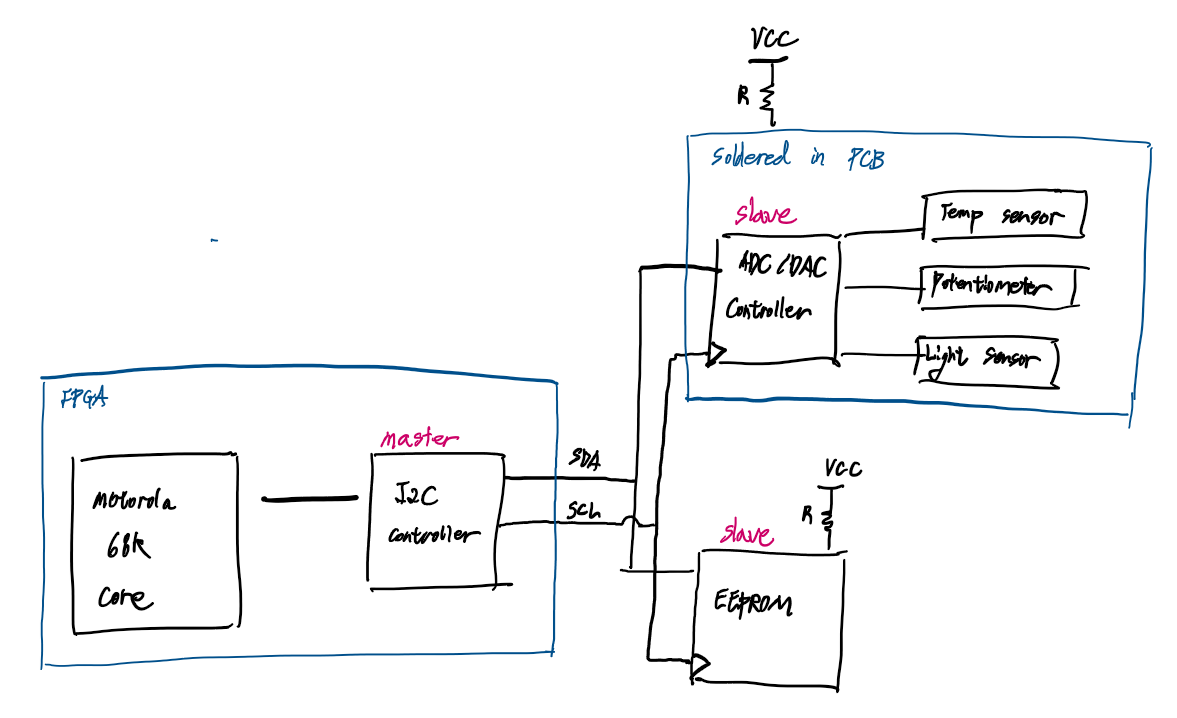
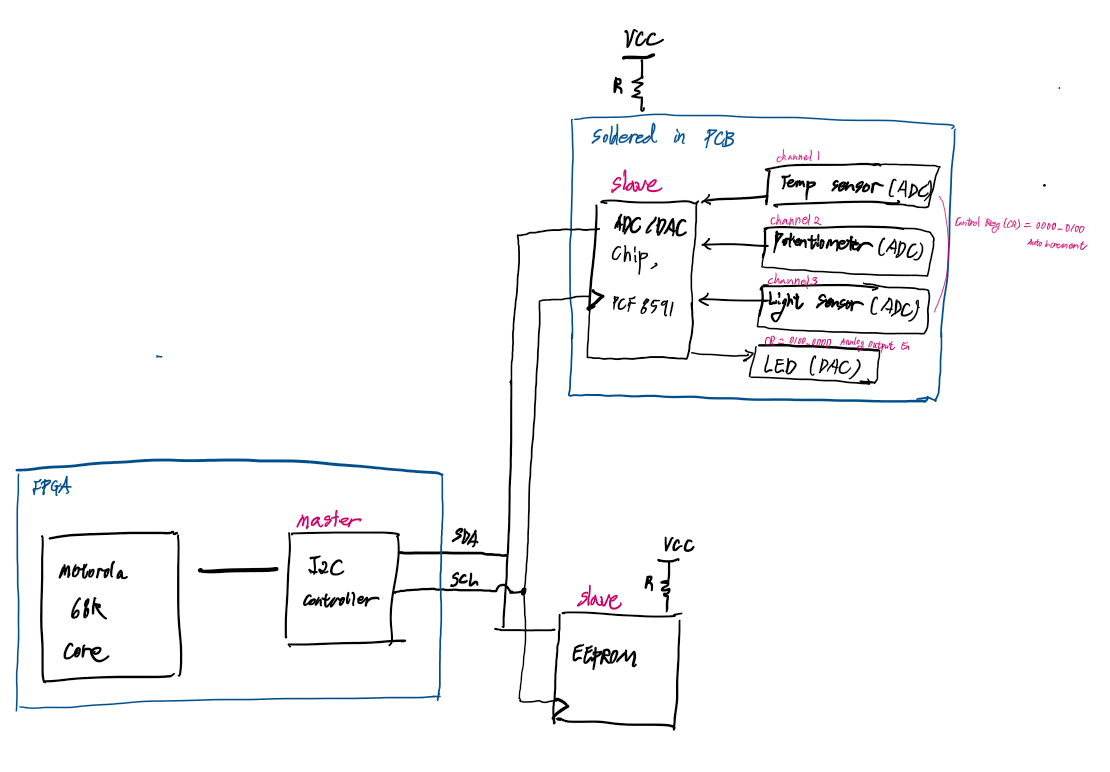
readme added

diff --git a/Lab5/Lab5_EEPROM_ADC_DAC(final).c b/Lab5/Lab5_EEPROM_ADC_DAC(final).c
@@ -86,7 +86,8 @@
 #define SR       *(volatile unsigned char *)(0x00408008)    // status register
 
 /*********************************************************************************************
-**	I2C Addresses
+**	I2C Slave Addresses
+**  ADC/DAC p13 of the PCF8591 Datasheet
 *********************************************************************************************/
 #define EEPROM_ADDR_WRITE0      0xA0                   // for bank 0 (B0 = 0)
 #define EEPROM_ADDR_READ0       0xA1                   // for bank 0 (B0 = 0)
@@ -721,13 +722,13 @@ void DAC_LED(void) {
 	// write ADC slave adress 1 0 0 1 0 0 0 0(write)
     I2C_start_write(ADC_ADDR_WRITE);
 
-	// write control bytes 0 1 0 0 0 0 0 0 = 0x40 for enabling DAC
+	// write control bytes 0100_0000 = 0x40 for analog output voltage enable flag. D/A conversion
     I2C_write(0x40);
 
 
 	//endless loop
 	//continously increased the voltage value that goes into LED.
-	//for every 20 loop, the intensity of light goes up by1.
+	//for every 20 loop, the intensity of light goes up by 1.
 	//once it reaches 255, it starts from 0 again.
 	while (1) {
 
@@ -750,12 +751,12 @@ void DAC_LED(void) {
 }
 
 /************************************************************************************
-**   Read all four ADC channels and print them out
+**   Read all four ADC channels and print them out (ADC)
 ************************************************************************************/
 void ADC_Read(void) {
     unsigned char data = 0;
 
-    // Beofre we read the value, we have to select the correct channel by writting the channel number to I2C controller.
+    // Before we read the value, we have to select the correct channel by writting the channel number to I2C controller.
 	// write ADC slave adress 1 0 0 1 0 0 0 0(write)
     I2C_start_write(ADC_ADDR_WRITE);
 
@@ -768,13 +769,16 @@ void ADC_Read(void) {
     
     I2C_write(0x04);
 
-    I2C_stop_command();
+    //repeated start is used here. don't need to send the stop-bit
+    //I2C_stop_command();
 
     printf("\r\nReading 3 sensors");
 
-    // write slave address
+    // send the read address
+    // write ADC slave adress 1 0 0 1 0 0 0 1(read)
     I2C_start_write(ADC_ADDR_READ);
 
+    //I2C_read(1) continusouly read
     data = I2C_read(1);
     printf("\r\nDigital value of external input = 0x%x", data);
 
@@ -784,7 +788,8 @@ void ADC_Read(void) {
     data = I2C_read(1);
     printf("\r\nDigital value of photo-resistor = 0x%x", data);
 
-    data = I2C_read(0);                                         // this sends the NACK and stop command
+    // this sends the NACK and stop command
+    data = I2C_read(0);                                         
     printf("\r\nDigital value of potentiometer = 0x%x", data);
 
 }

diff --git a/Lab5/README.md b/Lab5/README.md
@@ -1,5 +1,4 @@
-# Lab5: I2C driver Development for wishbond buses
-
+# Lab5: I2C driver Development
 
 ## Goal:
 Use Motorola 68k softcore process on DE1-SoC FPGA Board, 
@@ -17,33 +16,92 @@ Use Motorola 68k softcore process on DE1-SoC FPGA Board,
     * DE1-SOC
     * Download motorola68k softcore + I2C controller VHDL code
 * EEProm : 
-    * Microchip's 24AA1025, 128k bytes EEProm
+    * Microchip's 24AA1025, 1MB (128k x 8) EEProm
 * ADC/DAC converter: 
-    * NXP's PCF8591 is soldered to a tiny PCB with three sensors (Potentiometer, Light and Temperature)
+    * NXP's PCF8591 is soldered to a tiny PCB with three sensors + LED output
 
 ## Block diagram :
 
 <img src="image/blockdiagram.png" >
 </br></br>
 
-## I2C read, write:
-READ
-    1. generate start command
-    2. write slave address + write bit
-    3. receive acknowledge from slave
-    4. write data
-    5. receive acknowledge from slave
-    6. generate stop command
+## I2C Master Core:
+* Register Configuration:
 
-WRITE
-    1. generate start signal
-    2. write slave address + write bit
-    3. receive acknowledge from slave
-    4. write memory location
-    5. receive acknowledge from slave
-    6. generate repeated start signal
-    7. write slave address + read bit 
-    8. receive acknowledge from slave
-    9. read byte from slave
-    10. write no acknowledge (NACK) to slave, indicating end of transfer
-    11. generate stop signal
+    Control Register(CTR)
+    | Bit           | 7 MSB | 6 | 5 | 4 | 3  | 2  | 1  | 0 LSB |
+    |---------------|-------|---|---|---|----|----|----|-------|
+    | | Core Enable | Interrupt Enable |  |  |  |  |  |   |
+
+
+    Command Register(CR)
+    | Bit           | 7 MSB | 6 | 5 | 4 | 3  | 2  | 1  | 0 LSB |
+    |---------------|-------|---|---|---|----|----|----|-------|
+    | | Generate Start | Generate Stop | Read from slave | Write to slave |  |  |  | Interrupt Ack: When set, clears a pending interrupts  |
+
+    Status Register(SR)
+    | Bit           | 7 MSB | 6 | 5 | 4 | 3  | 2  | 1  | 0 LSB |
+    |---------------|-------|---|---|---|----|----|----|-------|
+    | | Receive Ack from slave |  |  |  |  |  |  | Interrupt Flag: set to 1 when interrupt is pending  |
+
+    Transmit Register(TXR): All 8 bits are the next byte to transmit via I2C
+
+    Receive Register(RXR): All 8 bits are the last byte received via I2C
+
+## EEPROM:
+* Slave Address:
+
+    | Bit           | 7 MSB | 6 | 5 | 4 | 3  | 2  | 1  | 0 LSB |
+    |---------------|-------|---|---|---|----|----|----|-------|
+    | slave address | 1     | 0 | 1 | 0 | B0 | A1 | A0 | R/~W  |
+
+    B0: Block select bit. The device divided into two banks of 512K bits. Block select bit to control access to each bank. 
+
+    A1, A0: Chip select bit. Allows to add up to 4 devices. Only one EEPROM is used for this project. Therefore, A1, A0 are set to 0.
+    
+
+* Write:
+
+    There are total of 1MB(total memory) / 1Byte(size of each address can hold)= 2^16 addresses. Therefore, upper 8bits and lowers 8bits need to send  
+
+    22AA1025 supports upto page write of 128 bytes at once. Instead of generating a Stop bit, the master transmit up to 127 addition bytes which are stored in the on-chip page buffer, and will be written into memory after stop bit is transmitted.
+
+
+
+
+    1. Byte Write 
+
+    |   |   |   |   |   |   |   |   |   |   |   |   |   |
+    |---|---|---|---|---|---|---|---|---|---|---|---|---|
+    |start| slave address | Ack | Address High Byte |Ack| Address Low Byte| Ack |Data| Stop|
+  
+
+    2. Page Write
+
+    |   |   |   |   |   |   |   |   |   |   |   |   |   |
+    |---|---|---|---|---|---|---|---|---|---|---|---|---|
+    |start| slave address | Ack | Address High Byte |Ack| Address Low Byte| Ack |Data0| Ack| ... | Data127| Ack| Stop|
+
+
+
+## ADC/DAC: 
+* Slave Address:
+
+    | Bit           | 7 MSB | 6 | 5 | 4 | 3  | 2  | 1  | 0 LSB |
+    |---------------|-------|---|---|---|----|----|----|-------|
+    | slave address | 1     | 0 | 0 | 1 | A2 | A1 | A0 | R/~W  |
+
+    A2, A1, A0 is programmable part that is set accodring to the hardware pins A2, A1, A0 which are set to all 0.
+
+* I2C ADC Write:
+    |   |   |   |   |   |   |   |   |   |   |
+    |---|---|---|---|---|---|---|---|---|---|
+    |start| slave address | Ack | Data0 |Ack| Data1| Ack | ... | Stop|
+
+* I2C DAC Read:
+
+    |   |   |   |   |   |   |   |   |   |   |   |   |
+    |---|---|---|---|---|---|---|---|---|---|---|---|
+    |start| slave address | Ack | ADC's channel number |Ack| Start bit(Sr) | slave Address |  Ack | Data0| Ack from master| ... | stop|
+
+    * Start bit(Sr): repeated start
